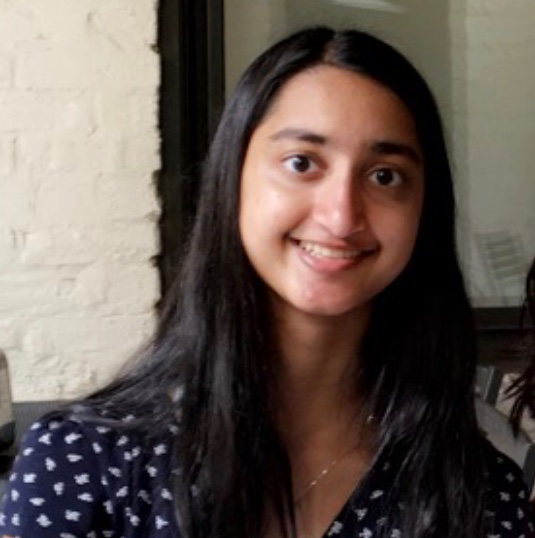
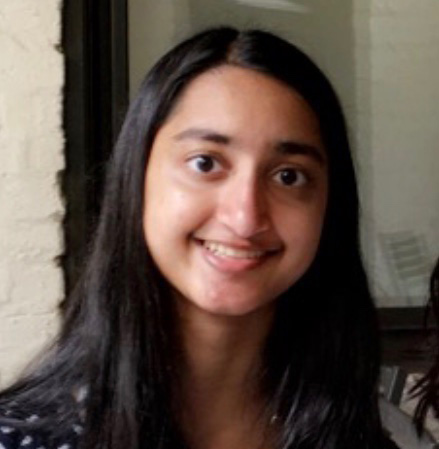
Update team headshots (#33)
* remove hmmm(m)

* update .gitignore

* update team headshots

diff --git a/pages/index.js b/pages/index.js
@@ -148,16 +148,18 @@ function IndexPage() {
         <br />
         <div className="text-center mx-auto -space-x-4 mb-4">
           {[
-            "varun",
-            "samay",
             "megan",
             "reese",
+            "mbogo",
             "divya",
-            "drew",
-            "alaa",
+            "varun",
+            "samay",
+            "shrey",
+            "tyrus",
+            "hari",
+            "lucas",
             "elliot",
-            "emir",
-            "leon",
+            "rohan",
           ].map((member) => (
             <img
               className="relative z-10 inline object-cover w-12 h-12 border-2 border-white rounded-full"
